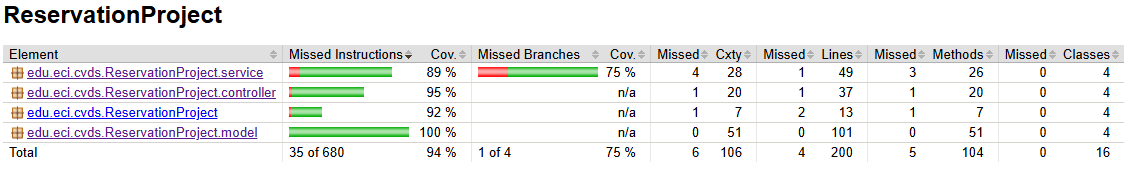
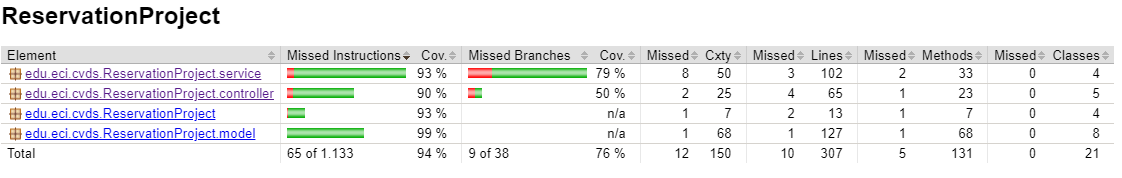
Actualizacion de Analisis estatico de codigo

Changed region(s): [[0.0, 0.2247, 0.9982, 0.8989], [0.0, 0.0281, 0.2184, 0.1685]]

diff --git a/src/test/java/controllerTest/controllerTest.java b/src/test/java/controllerTest/controllerTest.java
@@ -10,6 +10,7 @@ import org.mockito.InjectMocks;
 import org.mockito.Mock;
 import org.mockito.Mockito;
 import org.mockito.junit.jupiter.MockitoExtension;
+import org.springframework.http.HttpStatus;
 import org.springframework.http.ResponseEntity;
 import org.junit.jupiter.api.BeforeEach;
 
@@ -305,6 +306,23 @@ class controllerTest {
         assertEquals(400, response.getStatusCodeValue());
         assertEquals("Formato de fecha u hora inválido. Use yyyy-MM-dd y HH:mm.",
                 ((Map<?, ?>) response.getBody()).get("message"));
+    }
+
+    @Test
+    void testCheckAvailability_InternalServerError() {
+        String labId = new ObjectId().toString();
+        String date = "2025-03-08";
+        String time = "10:00";
+
+        when(reservationService.isLaboratoryAvailable(any(), any(), any()))
+                .thenThrow(new RuntimeException("Simulación de error interno"));
+
+        ResponseEntity<?> response = reservationController.checkAvailability(labId, date, time);
+
+        assertEquals(HttpStatus.INTERNAL_SERVER_ERROR, response.getStatusCode());
+        Map<?, ?> responseBody = (Map<?, ?>) response.getBody();
+        assertNotNull(responseBody);
+        assertTrue(responseBody.get("message").toString().contains("Error al verificar disponibilidad"));
     }
 
     @Test
